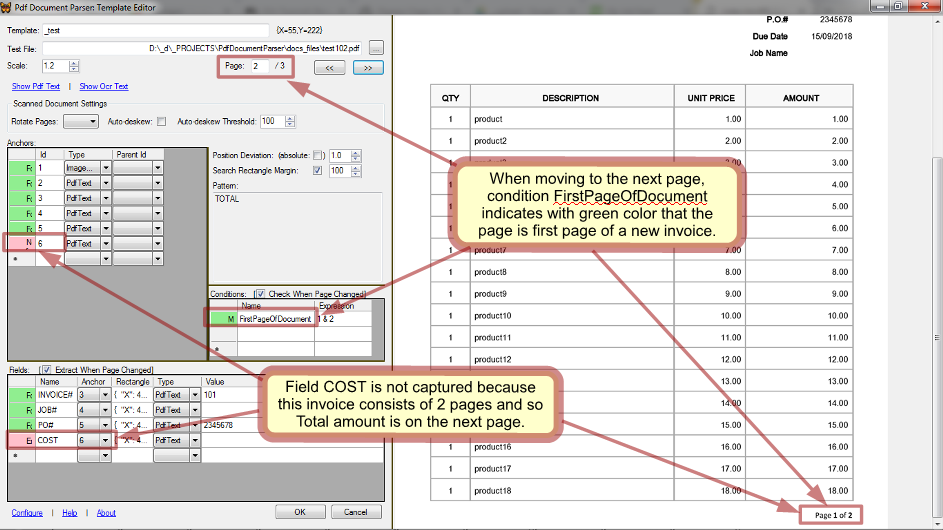
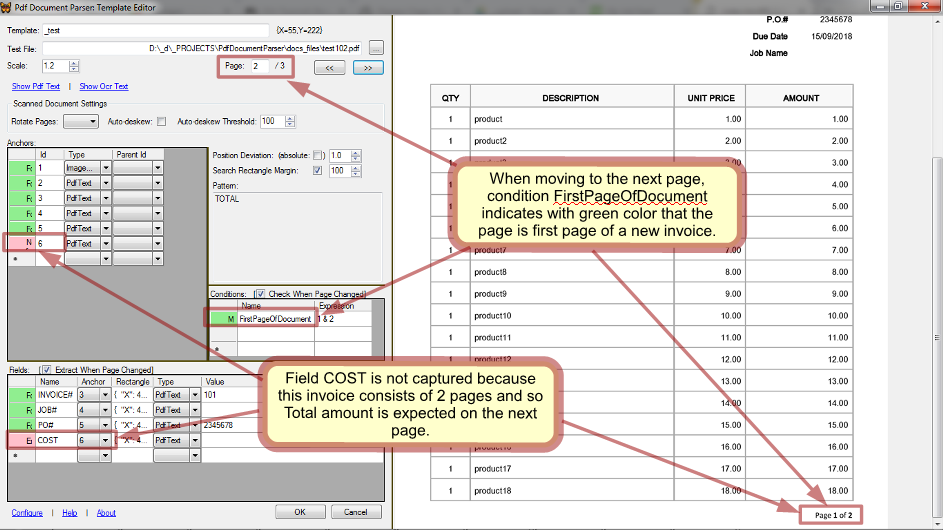
.

Changed region(s): [[0.2768, 0.6642, 0.6151, 0.8755]]

diff --git a/docs/index.html b/docs/index.html
@@ -55,7 +55,7 @@ Template Editor is a GUI object that can be called from a desktop application wh
 <table>
 <tr><th class='title_column'>Object</th><th>Description</th></tr>
 <tr><td class='title_column'><code>Cliver.PdfDocumentParser.TemplateForm</code></td>
-<td>.NET Windows Form that provides abilities of editing/debugging a template. Create <code>TemplateForm</code> with a defined <code>TemplateManager</code> and call <code>Show()</code> or <code>ShowDialog()</code> on it.</td></tr>
+<td>.NET Windows Form that provides abilities of editing/debugging a template. Create <code>TemplateForm</code> with a <code>TemplateManager</code> instance as a parameter and call <code>Show()</code> or <code>ShowDialog()</code> on it.</td></tr>
 <tr><td class='title_column'><code>Cliver.PdfDocumentParser.TemplateManager</code></td>
 <td>Abstract class that must be defined with custom routines. Passed to <code>TemplateForm()</code> as a parameter.</td></tr>
 </table>
@@ -68,7 +68,7 @@ Template Editor is a GUI object that can be called from a desktop application wh
 <img src='img/tutorial0.png'/>
 
 <h3>Create anchors</h3>
-<p>Any template needs at least one <a href='#anchor'>anchor</a> that will certainly identify type of document and distinguish it from the rest documents you may want to parse. Such an anchor should be targeted to some fragment of a document that is unique to its type. Usually a logo of company that issued the document can well serve this goal.
+<p>Any template needs at least one <a href='#anchor'>anchor</a> that will certainly identify type of document and distinguish it from the rest documents you may want to parse. Such an anchor should be targeted to some fragment of a document that is unique to its type. Obviously, that this fragement must identify the document type with a high confidence. Usually a logo of company that issued the document can serve well this goal.
 <p class='screenshot_title'>Create an anchor that captures the logo and thus detects if the page corresponds to the template:
 <img src='img/tutorial1.png'/>
 
@@ -79,26 +79,26 @@ Template Editor is a GUI object that can be called from a desktop application wh
 <p><span class='attention'>NOTE: </span>when you select a row in either table: anchors, conditions or fields, its status is updated in the head cell and the captured place is displayed in the page viewer.
 
 <h3>Specify conditions</h3>
-<p>Generally, <a href='#condition'>conditions</a> can be any predefined by custom application. In this tutorial a condition is used that is highly likely required in any application. In the tutorial this condition has name FirstPageOfDocument. Every PDF page should be examined with it for the following:
+<p>Generally, <a href='#condition'>condition</a> collection can be any being predefined by a custom application. In this tutorial only one condition named FirstPageOfDocument is used which is highly likely suitable for any application. Each PDF page is to be examined with it to check the following:
 <ul>
-<li>does this page belong to a document that this template was created for?</li>
+<li>does a page belong to a document that this template was created for?</li>
 <li>if it does, is the page the first page of a document?</li>
 </ul>
-If this condition is met then this template is chosen to process the page. 
+If this condition is met then this template is chosen to process this page and the next ones until a new document beginning is detected. 
+<p>Sometimes one more condition that checks if a page is the last page of a document is required but the necessity of it depends on what is known about PDF files to be parsed with it. In this sample it is considered redundant.
 <p class='screenshot_title'>FirstPageOfDocument must relate on anchors #1 and #2 created above. Fill it with boolean expression "1 & 2" which is true only when both anchors are found together:
 <img src='img/tutorial3.png'/>
 
-<p>While FirstPageOfDocument configured with 2 anchors is quite good for the example, sometimes more anchors are required: for instance when there are different type documents issued by the same company and thus company's logo recognition is not sufficient to distinguish between them.
+<p>While in this sample FirstPageOfDocument is quite good with 2 anchors, sometimes more anchors may be needed: for instance when the same company issues documents of different types and thus company's logo is not sufficient to detect the type.
 
 
 
 <h3>Set fields</h3>
-<p>Though some <a href='#field'>fields</a> may remain not linked to anchors, it is advisable to always link them. So done in this tutorial.
+<p>Though some of the <a href='#field'>fields</a> in this sample seem not to need linking to anchors, it is advisable to always link fields to acnhors to drastically reduce the probability of mistaken parsing. It will be done so in this tutorial.
 <p class='screenshot_title'>Set <a href='#field'>field</a> INVOICE#:
 <img src='img/tutorial4.png'/>
 
-<p>In the same way as above set the rest fields and create anchors for them. 
-<p class='screenshot_title'>Set field COST :
+<p class='screenshot_title'>In the same way as above set the rest fields and create anchors for them:
 <img src='img/tutorial5.png'/>
 
 
@@ -276,12 +276,13 @@ Elements of this type anchor is images which are page fragments picked by the se
 <p>Conditions are identified by their names. Their name collection is dictated by logic of custom application and thus is predefined within its scope and is the same for all templates.
 
 <h3>Mostly used condition</h3>
-<p>While condition collection can vary, the following conditons highly likely are required in any application:
+<p>While condition collection can vary, the following checks highly likely are needed in any application:
 <ul>
-<li>condition that tells whether document corresponds to this template or not. It is obviously that this condition must identify its document type with a high confidence;</li>
-<li>also, if processed PDF files are multi-document then one more condition that detects first page of documents is required;</li>
+<li>does a document correspond to the template?</li>
+<li>also, - if the PDF files to be parsed can be multi-document - is a page the first page of a document?</li>
 </ul>
-Usually both of these tasks are united into a single condition, though.
+Usually these checks are united in a single condition which thus allows choosing the right template while parsing a PDF file page by page consequently.
+<p>Depending on the parsing task, more conditions may be required: for instance that one that can detect the last page of a document.
 
 <h3>Boolean expression</h3>
 Condition expressions are composed of the following symbols: &lt;anchor id&gt;, '!', '&', '|', '(', ')'. When anchor referenced by &lt;anchor id&gt; is found then it is treated as True, otherwise False. Meaning of a condition is the boolean result of its expression. 
@@ -295,7 +296,7 @@ Condition expressions are composed of the following symbols: &lt;anchor id&gt;, 
 <tr><td class='title_column_center'>(1 | 7 | 8) & 2</td>
 <td>Such kind of expression is useful for instance when a company can use different logos for documents of the same structure. In such a case, instead of creating several separate templates, a single template can be configured that can accept more than 1 logo image. Respectively anchors #1,7 and 8 are targeted to the expected logos.</td></tr>
 <td class='title_column_center'>!2 | (2 & 3)</td>
-<td></td></tr>
+<td>This expression could be used for instance for a decision whether a certain field should be parsed or passed off.</td></tr>
 </table>
 
 
@@ -305,19 +306,19 @@ Condition expressions are composed of the following symbols: &lt;anchor id&gt;, 
 <h2><a name="field">Field</a></h2>
 <p>Field defines certain text or image that is to be extracted from PDF file. 
 <p>Fields are identified by their names. Their name collection is dictated by logic of custom application and thus is predefined within its scope and is the same for all templates. 
-<p>A field optionally can be linked to an anchor. When a field has no anchor, its selecting rectangle retains absolute position which was its position during creation. When a field has anchor, PdfDocumentParser locates the field's rectangle relatively to its anchor's actual position so that if in some page the anchor shifts, the field shifts together with it. It is advisable always to link fields to anchors thus drastically decreasing probability of incorrect parsing.  
-<p>To create a field, select a new row in the fields table and select the area in page were text for this field must be extracted. If the field may have different location in page then it must be linked to an anchor that will detect its proper location for every page. If anchor of a linked field is not found then this field is not found as well. 
-<p>When it is known that the field is always has the same position in every document then there is no need to link it to an anchor.
+<p>A field optionally can be linked to an anchor. When a field has no anchor, its selecting rectangle retains absolute position which was its position during creation. When a field has anchor, PdfDocumentParser locates the field's rectangle relatively to its anchor's actual position so that if on some page the anchor shifts, the field shifts together with it. It is advisable always to link fields to anchors thus drastically decreasing probability of incorrect parsing.  
+<p>To set a field, select the respective row in fields table, choose its <a href='#fieldTypes'>type</a> and then select in the page view a rectangle from where text or image must be extracted. Then, if a field has a variable position then it must be linked to an anchor that will detect its proper location on a page. If the anchor of a linked field is not found then this field is not found too. 
+<p>When it is known that a field is always has the same position and appears on every page then there is no need to link it to an anchor.
 
-<h3><a name='anchorPdfText'>Field types</a></h3>
-<h4>PdfText</h4>
+<h3><a name='fieldTypes'>Field types</a></h3>
+<h4><a name='fieldPdfText'>PdfText</a></h4>
 Its value is a text surrounded by field's rectangle. It is obtained from PDF text entities.
 <h4>OcrText</h4>
 Its value is a text surrounded by field's rectangle. It is recognized by OCR engine.
-<p>For native PDF documents this type should never be used. But for scanned documents it is the only way to get text in digital form that can be recorded in a file or database, indexed, searched and so on.
+<p>For native PDF documents this type should never be used. But for scanned documents it is the only way to get text in the digital form which can be recorded in a file or database, indexed, searched and so on.
 <h4>ImageData</h4>
-Its value is a System.Drawing.Bitmap object that contains fragment of page surrounded by field's rectangle. 
-It is used when image is required rather than text or when OCR is not reliable.
+Its value is a <code>System.Drawing.Bitmap</code> object that contains a fragment of page surrounded by the field's rectangle. 
+<p>It is used when image is required rather than text or when OCR is not reliable.
 
 
 
@@ -326,9 +327,9 @@ It is used when image is required rather than text or when OCR is not reliable.
 
 
 <h1>Scanned documents</h1>
-<p>Scanned documents are not the first subject for PdfDocumentParser but they are supported. PdfDocumentParser provides auto-deskew and page rotation options which are usually required for scanned documents. 
+<p>Scanned documents are not the first subject for PdfDocumentParser but they are supported. PdfDocumentParser provides auto-deskew and page rotation options which are usually needed for scanned documents. 
 <p>Because of quality deviations in scanned documents the image comparison tolerance parameters may need to be tuned.
-<p>The image resolution in PdfDocumentParser must be set to not less than 300dpi, otherwise OCR will not work. On the other hand, increasing resolution increases processing time. Also, setting resolution in PdfDocumentParser higher than the resolution of original images will not make sense. Image resolution parameter is common for all templates and can be changed in the settings window. 
+<p>The image resolution in PdfDocumentParser must be set to not less than 300dpi, otherwise OCR will not work properly. The higher the resolution, the better OCR is. On the other hand, increasing resolution increases processing time. Also, setting resolution in PdfDocumentParser higher than the resolution of original images will not make sense. Image resolution parameter is common for all templates and is set in the configuration window. 
 
 
 
@@ -340,20 +341,20 @@ It is used when image is required rather than text or when OCR is not reliable.
 
 
 <h1><a name='InvoiceParser'></a>InvoiceParser</h1>
-Invoice Parser is a custom desktop application based on PdfDocumentParser. It can be used as a framework or sample of incorporating PdfDocumentParser into custom code. Actually its custom specificity lays only in a way how PDF files are parsed while the rest code can be used unchanged as a framework in a new application.
+Invoice Parser is a custom desktop application based on PdfDocumentParser. It can be used as a sample of incorporating PdfDocumentParser into a custom code. Actually its custom specificity lays only in a way how PDF files are parsed while the rest code can be used unchanged as a framework in a new application.
 <p>Generally, it does the following:
 <ul>
-<li>enhances PdfDocumentParser.Template with custom properties that are not related to parsing;</li>
-<li>keeps and manages templates;</li>
-<li>defines PdfDocumentParser.TemplateForm.TemplateManager and calls PdfDocumentParser.TemplateForm for editing templates;</li>
-<li>processes PDF files along the custom needs;</li>
+<li>enhances <code>PdfDocumentParser.Template</code> with custom properties that are not related to parsing;</li>
+<li>stores and manages templates;</li>
+<li>defines <code>PdfDocumentParser.TemplateForm.TemplateManager</code> and calls <code>PdfDocumentParser.TemplateForm</code> for editing templates;</li>
+<li>processes PDF files in accordance with the custom needs;</li>
 </ul>
 <img src='img/invoiceparser2_1.png'/>
 
 <h2>Assumptions</h2>
 <ul>
-<li>by default, a PDF file can contain only documents of the same type and it can be tuned for every template separately;</li>
-<li>once detected, a document is considered continued until next document begins or the file ends;</li>
+<li>by default, a PDF file can contain documents of the same type only but it can be tuned for every template separately;</li>
+<li>once detected, a document is considered continued until the next document begins or the file ends;</li>
 </ul>
 <p>These assumptions is not something deep rooted in the code and can be easily modified.
 
@@ -371,15 +372,18 @@ Invoice Parser is a custom desktop application based on PdfDocumentParser. It ca
 <td>The last page in PDF files that is to be checked for this template. It is intended to reduce processing time.</td></tr>
 <tr><td class='title_column'>Filter</td>
 <td>It is a Regex applied to PDF file path to recognize the proper template. Optional. It is intended to reduce processing time.</td></tr>
+<tr><td class='title_column'>Filter</td>
+<td>It is a Regex applied to PDF file path to recognize the proper template. Optional. It is intended to reduce processing time.</td></tr>
+<tr><td class='title_column'>SFTRegex</td>
+<td>It is a Regex that matches to names of templates that can share the same PDF file. By default it is NULL meaning that such a template if chosen for processing a PDF file cannot be changed for this file.</td></tr>
 </table>
 
 <h2>Considerations</h2>
-<p>When processing documents InvoiceParser applies every active template to every new document to recognize a proper template. So, if you have 50 templates and 1000 files evenly distributed for templates, InvoiceParser will do on average 1000/2 *50 = 25,000 template tries. It may take a considerable time especially with templates using OCR. You can decrease processing time by the following ways:
+<p>When processing documents InvoiceParser applies every active template to every new document to recognize a proper template. So, if you have 50 templates and 1000 files evenly distributed for templates, InvoiceParser will do on average 1000/2 *50 = 25,000 template tries. It may take a considerable time when templates use OCR. Processing time can be reduced by the following ways:
 <ul> 
 <li> specify file filters for templates. If it can be done then the tips below are not needed;
-<li> specify template orders so that templates that require longer time for recognition have higher order. E.g. templates that use auto-deskew should be checked in the last place;
-<li> keep templates that are known as not corresponding to the files to be processed right now, inactive so that PdfDocumentParser will have to choose the right templates from a lesser collection;
-<li> as every template is checked for condition FirstPageOfDocument, avoid using OCR text type in its anchors because this type requires essential time to build an OCR cache of page (being built it is very fast though). This tip makes sense only when the most of templates use Image type in anchors which usually happens. Otherwise, if anchors of the most of templates can use OCR'ed text then it may give a faster parsing;
+<li> specify template orders so that templates that require a longer time for recognition have a higher order. E.g. templates that use auto-deskew should be checked in the last place;
+<li> keep templates that are known as not corresponding to the files to be processed right now, inactive;
 </ul>
 
 

diff --git a/docs/menu_generator.js b/docs/menu_generator.js
@@ -7,15 +7,15 @@ Tested on Chrome and IE.
 
 REQUIREMENTS:
 Html body must have: 
-- 1 <div class='header'>;
-- 1 <div class='content'>;
-- 1 <div class='footer'>;
+- one <div class='header'>;
+- one <div class='content'>;
+- one <div class='footer'>;
  Only <div class='content'> is parsed while building menu. 
- Every <h1>, <h2>... tag becomes an item.
+ Every <h1>, <h2>... tag becomes items.
  
  USAGE:
- This script must be embedded in the end of html body.
- Also menu_generator.css must be linked.
+ This script should be embedded in the end of html body.
+ Also menu_generator.css should be linked.
 ************************************************************************/
 var convert = function(mode){
     var getItems = function(){
@@ -58,8 +58,8 @@ var convert = function(mode){
     };
     
     var setModeSwithers = function(){//alert(mode+(mode == '_collapsedContent'));
-        var switcherContainer = document.getElementsByClassName('switcherContainer')[0];
-        switcherContainer.innerHTML = '<a class="switchLink" href="#_plainHtml" title="If the page is not displayed properly, switch to the plain html.">plain html</a>&nbsp;|&nbsp;' + (mode == '_collapsedContent' ? '<a class="switchLink" href="#_entireContent" title="Switch to the entire content mode.">entire content</a>' : '<a class="switchLink" href="#_collapsedContent" title="Switch to the collapsed content mode.">collapsed content</a>');
+        var switchContainer = document.getElementsByClassName('switchContainer')[0];
+        switchContainer.innerHTML = '<a class="switchLink" href="#_plainHtml" title="If the page is not displayed properly, switch to the plain html.">plain html</a>&nbsp;|&nbsp;' + (mode == '_collapsedContent' ? '<a class="switchLink" href="#_entireContent" title="Switch to the entire content mode.">entire content</a>' : '<a class="switchLink" href="#_collapsedContent" title="Switch to the collapsed content mode.">collapsed content</a>');
     };
          
     var addMenu2Page = function(){       
@@ -90,9 +90,9 @@ var convert = function(mode){
         
         var menuContainer = document.createElement('div');
         menuContainer.classList.add("menuContainer");
-        var switcherContainer = document.createElement('div');
-        switcherContainer.classList.add('switcherContainer');
-        menuContainer.appendChild(switcherContainer);
+        var switchContainer = document.createElement('div');
+        switchContainer.classList.add('switchContainer');
+        menuContainer.appendChild(switchContainer);
         menuContainer.appendChild(menu);
         var content = document.getElementsByClassName('content')[0];
         content.parentNode.insertBefore(menuContainer, content);

diff --git a/docs/menu_generator.css b/docs/menu_generator.css
@@ -56,6 +56,10 @@ span.inline{
     font-weight1: bold;
 }
 
+.switchContainer{
+    margin: 0 0 10 5;
+}
+
 .switchLink{
     font-size: 12px;    
 }
